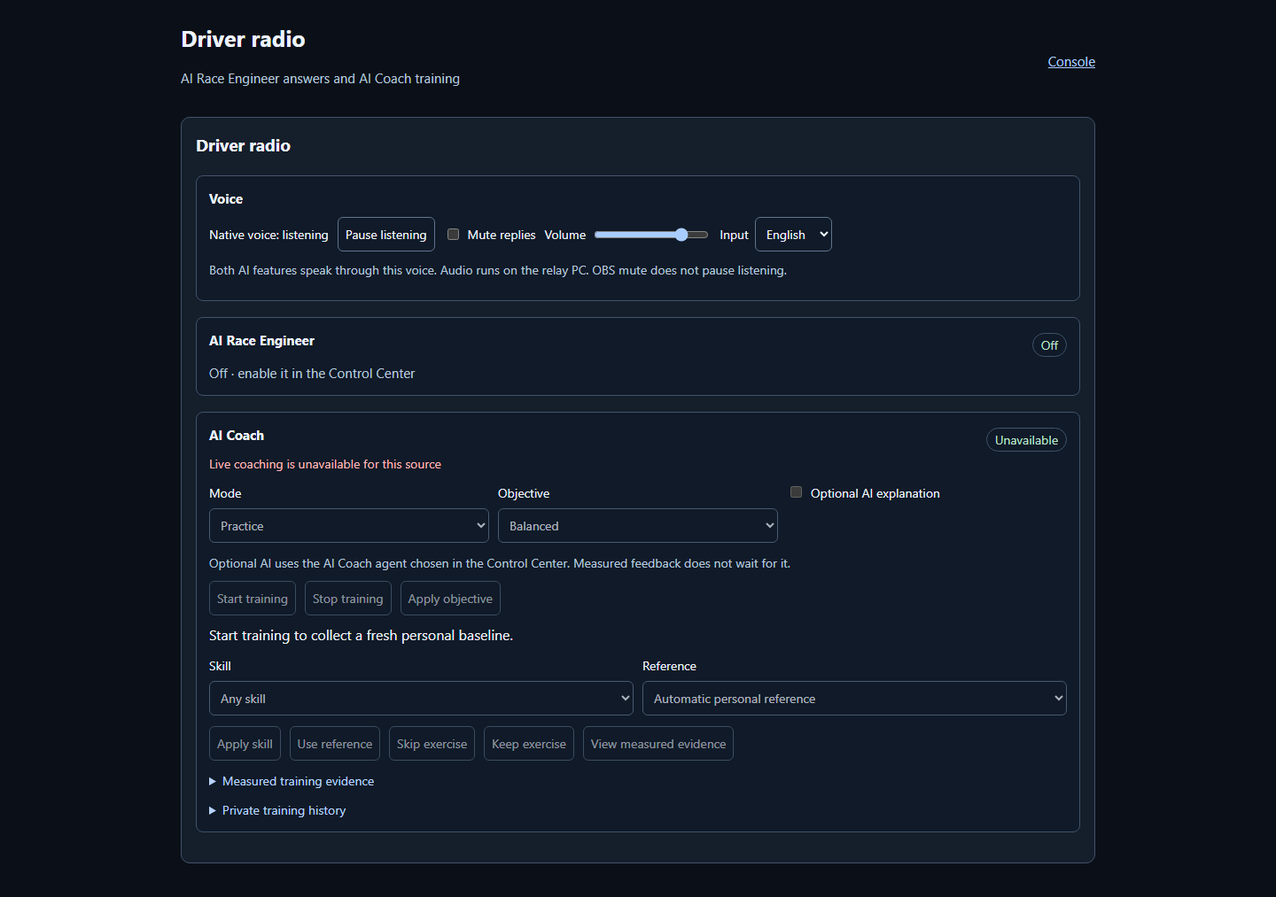
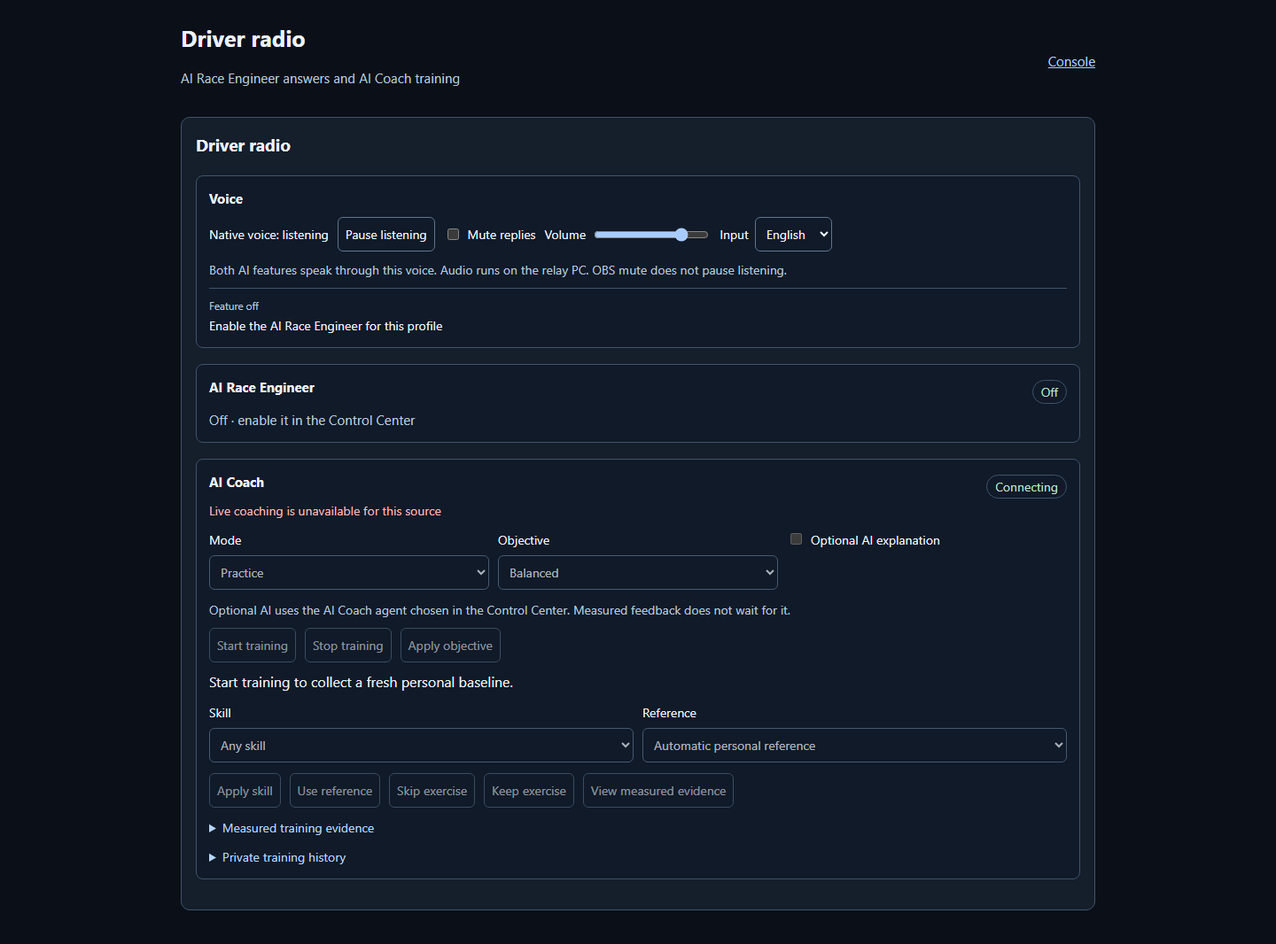
fix(radio): show refusal hints as text, start empty HUD slots hidden, reset voice on a native refusal
- The relay message lane lets refusal hints of a switched-off feature through
  (fixed DISABLED text, no engineer data); the driver view shows the newest one
  as "Feature off" in the shared Voice row instead of the feature's section.
  hud_text still never shows refusals.
- The HUD race-engineer and coach slots start with .empty, so a Visible slot
  shows no blank box before the first /hud/data reply.
- A 403 feature_disabled on a /native write hides the Voice row too.

diff --git a/src/console/driver-radio.js b/src/console/driver-radio.js
@@ -1,7 +1,7 @@
 /* Shared driver radio controls. Native audio belongs to the relay on the driver's PC. */
 (function () {
 'use strict';
-const CSS=`:host{display:block;color:#edf3fc;font:14px/1.5 system-ui,sans-serif;--edge:#41536b;--muted:#b7c7dc;accent-color:#a9ccff;color-scheme:dark}*{box-sizing:border-box}[hidden]{display:none!important}h2,h3,p{margin:0 0 10px}h2{font-size:19px}h3{font-size:15px}a{color:#a9ccff}button,input,select,textarea{font:inherit;color:inherit;background:#101a28;border:1px solid #61758f;border-radius:6px;padding:8px;max-width:100%}button{cursor:pointer;min-height:38px}button:hover{border-color:#a9ccff}button:disabled{opacity:.55;cursor:default}input[type=checkbox]{width:auto}input[type=range]{width:130px;padding:0}textarea{width:100%;min-height:58px}label{display:flex;align-items:center;gap:7px;flex-wrap:wrap}.card{border:1px solid var(--edge);border-radius:10px;background:#151e2b;padding:16px;margin-bottom:14px}.row{display:flex;align-items:center;gap:10px;flex-wrap:wrap}.head{display:flex;justify-content:space-between;gap:12px;align-items:center}.muted,small{color:var(--muted)}.error{color:#ffb9b9}.presets{display:grid;grid-template-columns:repeat(4,minmax(0,1fr));gap:8px;margin:12px 0}.answer{font-size:17px;line-height:1.55;overflow-wrap:anywhere}.urgent{border-color:#ff9b9b;background:#301c26}.badge{border:1px solid var(--edge);border-radius:14px;padding:2px 9px;color:#bce5cb;white-space:nowrap}details{margin-top:12px}summary{cursor:pointer;color:#b8d4ff}table{width:100%;border-collapse:collapse}th,td{text-align:left;vertical-align:top;border-bottom:1px solid var(--edge);padding:8px;overflow-wrap:anywhere}th{width:43%;font-weight:500;color:var(--muted)}ol{list-style:none;padding:0;margin:0}li{padding:14px 0;border-bottom:1px solid var(--edge)}.grid{display:grid;grid-template-columns:1fr 1fr;gap:14px}.grid label{display:flex;flex-direction:column;align-items:stretch;margin:10px 0}.grid .check{flex-direction:row;align-items:center}form button{margin-top:10px}.compact .presets{grid-template-columns:1fr 1fr}.compact .card{margin:0;border:0;border-radius:0}.compact .answer{font-size:14px}.compact .notice{font-size:12px}.notice{margin:10px 0;color:var(--muted)}.coach,.feature,.setting{border:1px solid var(--edge);border-radius:8px;padding:14px;margin:0 0 18px;background:#101a28}.off{font-size:15px;margin:4px 0 0}.cards{display:grid;grid-template-columns:1fr 1fr;gap:14px}.setting{margin:0}.setting.voice{grid-column:1/-1}.setting label{display:flex;flex-direction:column;align-items:stretch;margin:10px 0}.setting .check{flex-direction:row;align-items:center}.compact .feature{padding:10px}.coach-controls{display:grid;grid-template-columns:repeat(auto-fit,minmax(140px,1fr));gap:10px;margin:12px 0}.coach-controls label{align-items:flex-start;flex-direction:column}.coach-controls label:has(input[type=checkbox]){flex-direction:row}.coach select{width:100%}.coach .row{margin:10px 0}.compact .coach{padding:10px}.coach .answer{font-size:16px}.coach summary,.coach p{overflow-wrap:anywhere}.coach #coach-history-entries details{margin-bottom:10px}.coach #coach-history-delete-all{margin-top:10px}@media(max-width:650px){.presets,.grid{grid-template-columns:1fr 1fr}.grid,.cards{grid-template-columns:1fr}.head{flex-wrap:wrap}.card{padding:13px}.answer{font-size:15px}}`;
+const CSS=`:host{display:block;color:#edf3fc;font:14px/1.5 system-ui,sans-serif;--edge:#41536b;--muted:#b7c7dc;accent-color:#a9ccff;color-scheme:dark}*{box-sizing:border-box}[hidden]{display:none!important}h2,h3,p{margin:0 0 10px}h2{font-size:19px}h3{font-size:15px}a{color:#a9ccff}button,input,select,textarea{font:inherit;color:inherit;background:#101a28;border:1px solid #61758f;border-radius:6px;padding:8px;max-width:100%}button{cursor:pointer;min-height:38px}button:hover{border-color:#a9ccff}button:disabled{opacity:.55;cursor:default}input[type=checkbox]{width:auto}input[type=range]{width:130px;padding:0}textarea{width:100%;min-height:58px}label{display:flex;align-items:center;gap:7px;flex-wrap:wrap}.card{border:1px solid var(--edge);border-radius:10px;background:#151e2b;padding:16px;margin-bottom:14px}.row{display:flex;align-items:center;gap:10px;flex-wrap:wrap}.head{display:flex;justify-content:space-between;gap:12px;align-items:center}.muted,small{color:var(--muted)}.error{color:#ffb9b9}.presets{display:grid;grid-template-columns:repeat(4,minmax(0,1fr));gap:8px;margin:12px 0}.answer{font-size:17px;line-height:1.55;overflow-wrap:anywhere}.urgent{border-color:#ff9b9b;background:#301c26}.hint{border-top:1px solid var(--edge);padding-top:8px;margin-top:4px}.hint p{margin:2px 0 0}.badge{border:1px solid var(--edge);border-radius:14px;padding:2px 9px;color:#bce5cb;white-space:nowrap}details{margin-top:12px}summary{cursor:pointer;color:#b8d4ff}table{width:100%;border-collapse:collapse}th,td{text-align:left;vertical-align:top;border-bottom:1px solid var(--edge);padding:8px;overflow-wrap:anywhere}th{width:43%;font-weight:500;color:var(--muted)}ol{list-style:none;padding:0;margin:0}li{padding:14px 0;border-bottom:1px solid var(--edge)}.grid{display:grid;grid-template-columns:1fr 1fr;gap:14px}.grid label{display:flex;flex-direction:column;align-items:stretch;margin:10px 0}.grid .check{flex-direction:row;align-items:center}form button{margin-top:10px}.compact .presets{grid-template-columns:1fr 1fr}.compact .card{margin:0;border:0;border-radius:0}.compact .answer{font-size:14px}.compact .notice{font-size:12px}.notice{margin:10px 0;color:var(--muted)}.coach,.feature,.setting{border:1px solid var(--edge);border-radius:8px;padding:14px;margin:0 0 18px;background:#101a28}.off{font-size:15px;margin:4px 0 0}.cards{display:grid;grid-template-columns:1fr 1fr;gap:14px}.setting{margin:0}.setting.voice{grid-column:1/-1}.setting label{display:flex;flex-direction:column;align-items:stretch;margin:10px 0}.setting .check{flex-direction:row;align-items:center}.compact .feature{padding:10px}.coach-controls{display:grid;grid-template-columns:repeat(auto-fit,minmax(140px,1fr));gap:10px;margin:12px 0}.coach-controls label{align-items:flex-start;flex-direction:column}.coach-controls label:has(input[type=checkbox]){flex-direction:row}.coach select{width:100%}.coach .row{margin:10px 0}.compact .coach{padding:10px}.coach .answer{font-size:16px}.coach summary,.coach p{overflow-wrap:anywhere}.coach #coach-history-entries details{margin-bottom:10px}.coach #coach-history-delete-all{margin-top:10px}@media(max-width:650px){.presets,.grid{grid-template-columns:1fr 1fr}.grid,.cards{grid-template-columns:1fr}.head{flex-wrap:wrap}.card{padding:13px}.answer{font-size:15px}}`;
 const PRESETS=[['fuel','Fuel status'],['pace','Pace'],['tyres','Tyre temperatures'],['status','Short status']];
 function el(tag,text,cls){const node=document.createElement(tag);if(text!==undefined)node.textContent=text;if(cls)node.className=cls;return node;}
 function val(n,d=1){return typeof n==='number'&&Number.isFinite(n)?n.toFixed(d):'Unavailable';}
@@ -12,8 +12,9 @@ const COMPOUNDS=['CH','CM','CS','SH','SM','SS','RH','RM','RS','IM','W','D','S'];
 const OFF='Off · enable it in the Control Center';
 function disabled(error){return error.status===403&&error.code==='feature_disabled';}
 function sourceOf(message){return message.source==='coach'||message.source==='engineer'?message.source:message.kind==='coach'?'coach':'engineer';}
-function bySource(messages){const split={engineer:[],coach:[]};for(const message of messages||[])split[sourceOf(message)].push(message);return split;}
-// A refusal is the hint that its feature is switched off, not advice.
+// A refusal is the hint that its feature is switched off, not advice: the switched-off
+// feature's own section only says Off, so the hint goes to the shared Voice row.
+function bySource(messages){const split={engineer:[],coach:[]};for(const message of messages||[])if(message.kind!=='refusal')split[sourceOf(message)].push(message);return split;}
 const KINDS={question:'Voice question',requested:'Requested answer',refusal:'Feature off',coach:'Coach message'};
 function messageItem(message){const li=el('li');li.append(el('small',(KINDS[message.kind]||'Automatic advice')+' · '+message.state));if(message.question)li.append(el('p',message.question,'muted'));li.append(el('p',message.text));if(message.explanation)li.append(el('p','Interpretation: '+message.explanation,'muted'));return li;}
 function agentChoices(select,agents,chosen){select.replaceChildren(new Option('Off',''));for(const row of agents||[])select.append(new Option(row.name,row.id));if(chosen&&!Array.from(select.options).some(o=>o.value===chosen))select.append(new Option('Unavailable configured agent',chosen));select.value=chosen||'';}
@@ -44,7 +45,7 @@ class View {
  }
  engineer(on){this.q('engineer-off').hidden=on;this.q('engineer-body').hidden=!on;}
  // Both AI features are off: the shared voice row and the coach messages go too.
- voiceOff(){this.native=null;this.access=false;this.q('voice-section').hidden=true;this.q('phase').textContent='';for(const id of ['pause','mute','volume','language'])this.q(id).disabled=true;this.coach?.messages(null);}
+ voiceOff(){this.native=null;this.access=false;this.q('voice-section').hidden=true;this.renderHint(null);this.q('phase').textContent='';for(const id of ['pause','mute','volume','language'])this.q(id).disabled=true;this.coach?.messages(null);}
  async poll(){
   if(this.dead||this.busy)return;this.busy=true;const generation=this.generation;let voiceOk=false;
   try{if(this.admin){const data=await this.api('');if(this.dead||generation!==this.generation)return;this.renderAdmin(data);}else{
@@ -56,7 +57,7 @@ class View {
    this.content.hidden=false;this.q('sign').hidden=true;
    if(shared.status==='rejected'){if(!disabled(shared.reason))throw shared.reason;this.voiceOff();this.engineerOff();return;}
    const [history,native]=shared.value,split=bySource(history.messages||[]);
-   this.native=native;this.access=true;this.renderVoice();voiceOk=true;this.coach.messages(split.coach);
+   this.native=native;this.access=true;this.renderVoice();this.renderHint(history);voiceOk=true;this.coach.messages(split.coach);
    if(facts.status==='rejected'){if(!disabled(facts.reason))throw facts.reason;this.engineerOff();return;}
    const [state,setup]=facts.value;
    if(state.epoch!==history.epoch||!same(state.binding,history.binding)||!same(state.binding,setup.binding))throw new Error('Session changed. Refreshing current radio facts.');
@@ -76,12 +77,12 @@ class View {
    }
    return result;
   }catch(error){
-   if(!this.dead){if(!this.admin&&disabled(error))this.engineerOff();else if(error.status===401||error.status===403)this.deny(error);else if(generation===this.generation){this.actionError=error.status===409?'This session or form changed. Reload the form and review its current values before saving.':error.message;this.problem.textContent=this.actionError;this.q('reload').hidden=false;}}
+   if(!this.dead){if(!this.admin&&disabled(error)){if(path==='/native')this.voiceOff();this.engineerOff();}else if(error.status===401||error.status===403)this.deny(error);else if(generation===this.generation){this.actionError=error.status===409?'This session or form changed. Reload the form and review its current values before saving.':error.message;this.problem.textContent=this.actionError;this.q('reload').hidden=false;}}
    return null;
   }finally{this.sending=false;if(!this.dead){clearTimeout(this.timer);this.timer=setTimeout(()=>this.poll(),0);}}
  }
  buildDriver(){
-  this.content.innerHTML=`<section id="voice-section" class="feature" aria-label="Voice" hidden><div class="head"><h3>Voice</h3></div><div class="row"><span id="phase"></span><button id="pause" type="button">Pause listening</button><label><input id="mute" type="checkbox">Mute replies</label><label>Volume<input id="volume" type="range" min="0" max="1" step="0.05"></label><label>Input<select id="language"><option value="en">English</option><option value="de">German</option></select></label></div><p class="notice">Both AI features speak through this voice. Audio runs on the relay PC. OBS mute does not pause listening.</p></section><section id="engineer-section" class="feature" aria-label="AI Race Engineer"><div class="head"><h3>AI Race Engineer</h3><span id="live" class="badge">Connecting</span></div><p id="engineer-off" class="muted off" hidden>${OFF}</p><div id="engineer-body"><div class="presets"></div><div id="latest-box"><p id="question" class="muted"></p><p id="latest" class="answer" role="status">Waiting for a radio message.</p><small id="attachment"></small></div></div></section><section id="coach-section" aria-label="AI Coach"></section>`;
+  this.content.innerHTML=`<section id="voice-section" class="feature" aria-label="Voice" hidden><div class="head"><h3>Voice</h3></div><div class="row"><span id="phase"></span><button id="pause" type="button">Pause listening</button><label><input id="mute" type="checkbox">Mute replies</label><label>Volume<input id="volume" type="range" min="0" max="1" step="0.05"></label><label>Input<select id="language"><option value="en">English</option><option value="de">German</option></select></label></div><p class="notice">Both AI features speak through this voice. Audio runs on the relay PC. OBS mute does not pause listening.</p><div id="voice-hint" class="hint" role="status" hidden></div></section><section id="engineer-section" class="feature" aria-label="AI Race Engineer"><div class="head"><h3>AI Race Engineer</h3><span id="live" class="badge">Connecting</span></div><p id="engineer-off" class="muted off" hidden>${OFF}</p><div id="engineer-body"><div class="presets"></div><div id="latest-box"><p id="question" class="muted"></p><p id="latest" class="answer" role="status">Waiting for a radio message.</p><small id="attachment"></small></div></div></section><section id="coach-section" aria-label="AI Coach"></section>`;
   const body=this.q('engineer-body');const presets=this.content.querySelector('.presets');for(const [key,label] of PRESETS){const button=el('button',label);button.type='button';button.dataset.preset=key;button.onclick=()=>this.state&&this.send('/request',{preset:key,binding:this.state.binding});presets.append(button);}
   this.q('pause').onclick=()=>this.control({paused:!this.native.paused});this.q('mute').onchange=e=>this.control({muted:e.target.checked});this.q('volume').onchange=e=>this.control({volume:Number(e.target.value)});this.q('language').onchange=e=>this.control({input_language:e.target.value});
   if(this.compact){const link=el('a','Open driver desk');link.href='/console/driver-radio';body.append(link);return;}
@@ -98,6 +99,9 @@ class View {
   for(const id of ['pause','mute','volume','language'])this.q(id).disabled=!this.native.enabled;
   if(this.root.activeElement!==this.q('volume'))this.q('volume').value=this.native.volume;this.q('mute').checked=this.native.muted;this.q('language').value=this.native.input_language;
  }
+ // The newest message of the current session, when it is a refusal: the hint answers that
+ // one voice request and gives way to the next message of either feature.
+ renderHint(history){const box=this.q('voice-hint');const list=history?.messages||[],last=list[list.length-1];const hint=last?.kind==='refusal'&&last.epoch===history.epoch?last:null;box.replaceChildren();box.hidden=!hint;if(hint)box.append(el('small',KINDS.refusal),el('p',hint.text));}
  control(change){if(this.native)this.send('/native',{binding:this.native.binding,expected:this.native.revision,...change});}
  renderDriver(messages){
   this.engineer(true);this.q('engineer-body').querySelectorAll('button').forEach(n=>n.disabled=false);this.q('live').textContent=this.state.live?'Live telemetry':'Live data unavailable';

diff --git a/src/obs/hud.html b/src/obs/hud.html
@@ -309,8 +309,8 @@
   <div id="team3-brand" class="el team-brand white" data-edit="Team 3 brand name" data-edit-kind="text"></div>
   <div id="team3-quali" class="el team-quali white" data-edit="Team 3 quali lap" data-edit-kind="text"></div>
   <div id="race-control" class="el white" data-edit="Race control" data-edit-kind="text"></div>
-  <div id="race-engineer" class="el white" data-edit="Race engineer" data-edit-kind="text"></div>
-  <div id="coach" class="el white" data-edit="Coach" data-edit-kind="text"></div>
+  <div id="race-engineer" class="el white empty" data-edit="Race engineer" data-edit-kind="text"></div>
+  <div id="coach" class="el white empty" data-edit="Coach" data-edit-kind="text"></div>
   <div id="flag-status" class="el" data-edit="Flag status" data-edit-kind="text"></div>
   <div id="pov" class="el" data-edit="POV box" data-edit-kind="box"></div>
   <div id="pov-name" class="el" data-edit="POV name" data-edit-kind="text"></div>

diff --git a/tests/test_driver_radio_ui.py b/tests/test_driver_radio_ui.py
@@ -142,16 +142,24 @@ def t_any_signed_in_console_subject_reaches_the_engineer_without_an_assignment()
 
 
 def t_messages_and_native_serve_either_feature_and_only_enabled_sources():
+    import driver_radio_access as access
     def lane(f):
         status,raw,_=f.request('/console/driver-radio/messages');doc=json.loads(raw)
         return status,doc.get('messages',doc.get('error'))
+    def hint(messages,feature):
+        # A switched-off feature's refusal passes the lane (the driver view shows it in the
+        # Voice row); it carries only the fixed hint text, no engineer or coach data.
+        rows=[m for m in messages if m['source']==feature]
+        assert [m['kind'] for m in rows]==['refusal'] and rows[0]['text']==access.DISABLED[feature],rows
+        assert all(not value for value in rows[0]['evidence'].values()),rows[0]
     owner={'profile':'solo-pov','subject':'local:producer'}
     with RadioFixture() as f:
         switch(f,coach=True);f.f.poll()
         assert f.f.service.publish_coach('Brake later into turn one.',{},owner,'training',authorize=lambda:True,ready=lambda:True)
         f.f.service.refusal('engineer',f.f.service.refresh()['binding'])
         status,messages=lane(f)
-        assert status==200 and [m['source'] for m in messages]==['coach'],(status,messages)
+        assert status==200 and [m['source'] for m in messages]==['coach','engineer'],(status,messages)
+        hint(messages,'engineer')
         status,raw,_=f.request('/console/driver-radio/native');assert status==200 and json.loads(raw)['enabled'] in (True,False),(status,raw)
         for path in ('/console/driver-radio/snapshot','/console/driver-radio/setup'):
             status,raw,_=f.request(path);assert status==403 and json.loads(raw)['error']['code']=='feature_disabled',(path,status)
@@ -159,7 +167,13 @@ def t_messages_and_native_serve_either_feature_and_only_enabled_sources():
         switch(f,engineer=True);f.f.poll()
         f.f.request('fuel');f.f.service.refusal('coach',f.f.service.refresh()['binding'])
         status,messages=lane(f)
-        assert status==200 and messages and {m['source'] for m in messages}=={'engineer'},(status,messages)
+        assert status==200 and {m['source'] for m in messages}=={'engineer','coach'},(status,messages)
+        assert any(m['source']=='engineer' and m['kind']!='refusal' for m in messages),messages
+        hint(messages,'coach')
+        # The engineer's own answers stay in the relay once it is switched off.
+        switch(f,coach=True);f.f.poll()
+        status,messages=lane(f)
+        assert status==200 and not [m for m in messages if m['source']=='engineer' and m['kind']!='refusal'],(status,messages)
         switch(f);f.f.poll()
         for path in ('/console/driver-radio/messages','/console/driver-radio/native'):
             status,raw,_=f.request(path);doc=json.loads(raw)['error']
@@ -351,10 +365,11 @@ def _driver_routes(messages=(),engineer=True,coach=True):
            '/console/driver-radio/messages':[200,{'epoch':1,'binding':_BINDING,'messages':list(messages)}],
            '/console/driver-radio/native':[200,{'binding':_BINDING,'revision':0,'phase':'idle','enabled':True,'paused':False,'muted':False,'volume':1,'input_language':'en'}],
            '/console/driver-radio/setup':[200,{'binding':_BINDING,'revision':0,'setup':{}}]}
-    # The relay serves messages (enabled sources only) and native voice for either feature.
+    # The relay serves messages (enabled sources and refusal hints) and native voice for
+    # either feature.
     shared=('/console/driver-radio/messages','/console/driver-radio/native')
     keep={name for name,on in (('engineer',engineer),('coach',coach)) if on}
-    radio['/console/driver-radio/messages'][1]['messages']=[m for m in messages if m['source'] in keep]
+    radio['/console/driver-radio/messages'][1]['messages']=[m for m in messages if m['source'] in keep or m['kind']=='refusal']
     if not engineer:radio={path:(doc if coach and path in shared else off('AI Race Engineer')) for path,doc in radio.items()}
     radio['/console/driver-radio/coach']=[200,_COACH_STATE] if coach else off('AI Coach')
     radio['/console/whoami']=[200,{'subject':'driver','ai_engineer':engineer,'ai_coach':coach}]
@@ -390,19 +405,22 @@ def t_sections_split_messages_by_source():
     messages=[dict(id=1,source='engineer',kind='requested',state='done',text='Fuel for 12 laps.'),
               dict(id=2,source='coach',kind='coach',state='done',text='Brake two metres later.'),
               dict(id=3,source='coach',kind='refusal',state='text_only',text='Enable the AI Coach for this profile'),
-              dict(id=4,source='engineer',kind='refusal',state='text_only',text='Enable the AI Race Engineer for this profile')]
+              dict(id=4,source='engineer',kind='refusal',state='text_only',text='Enable the AI Race Engineer for this profile',epoch=1)]
     out=_run_component("""
      Object.assign(routes,%s);
      const view=window.DriverRadio.mount(new El('div'));await tick();await tick();
-     const result={engineer:byId('history').textContent,coach:byId('coach-messages').textContent,latest:byId('latest').textContent};
+     const result={engineer:byId('history').textContent,coach:byId('coach-messages').textContent,latest:byId('latest').textContent,
+       hint:byId('voice-hint').textContent};
      view.destroy();console.log(JSON.stringify(result));
     """%_driver_routes(messages))
     if out is None:return
     assert 'Fuel for 12 laps.' in out['engineer'] and 'Fuel for 12 laps.' not in out['coach'],out
     assert 'Brake two metres later.' in out['coach'] and 'Brake two metres later.' not in out['engineer'],out
-    assert 'Enable the AI Coach' in out['coach'] and 'Enable the AI Coach' not in out['engineer'],out
-    assert 'Feature off' in out['engineer'] and 'Automatic advice' not in out['engineer'],out
-    assert out['latest']=='Enable the AI Race Engineer for this profile',out
+    # Refusal hints belong to the shared Voice row, not to either feature's section.
+    for section in ('engineer','coach'):
+        assert 'Feature off' not in out[section] and 'Enable the' not in out[section],(section,out)
+    assert out['latest']=='Fuel for 12 laps.',out
+    assert out['hint']=='Feature off Enable the AI Race Engineer for this profile',out
 
 
 def t_a_disabled_feature_turns_off_only_its_own_section():
@@ -436,6 +454,43 @@ def t_coach_only_view_keeps_the_voice_controls_and_coach_messages():
     assert out['content'] is False and out['engineerOff'] is False,out
     assert out['voice'] is False and out['pause'] is False and out['phase'].startswith('Native voice'),out
     assert 'Brake two metres later.' in out['coach'],out
+
+
+def t_a_refusal_shows_in_the_voice_row_where_the_driver_looks():
+    # Coach alone: asking the switched-off AI Race Engineer by voice gets its hint as text in
+    # the Voice row (its own section only says Off), also when speech is muted or not live.
+    messages=[dict(id=1,source='coach',kind='coach',state='done',text='Brake two metres later.'),
+              dict(id=2,source='engineer',kind='refusal',state='text_only',text='Enable the AI Race Engineer for this profile',epoch=1)]
+    probe="""
+     Object.assign(routes,%s);
+     const view=window.DriverRadio.mount(new El('div'));await tick();await tick();
+     const result={hint:byId('voice-hint').textContent,hidden:byId('voice-hint').hidden,voice:byId('voice-section').hidden,
+       coach:byId('coach-messages').textContent,engineerOff:byId('engineer-off').hidden};
+     view.destroy();console.log(JSON.stringify(result));"""
+    out=_run_component(probe%_driver_routes(messages,engineer=False))
+    if out is None:return
+    assert out['voice'] is False and out['hidden'] is False and out['engineerOff'] is False,out
+    assert out['hint']=='Feature off Enable the AI Race Engineer for this profile',out
+    assert 'Enable the' not in out['coach'],out
+    # A later message replaces the hint: it answers that one request, not every poll.
+    later=messages+[dict(id=3,source='coach',kind='coach',state='done',text='Lift earlier into turn four.')]
+    out=_run_component(probe%_driver_routes(later,engineer=False))
+    assert out['hidden'] is True and out['hint']=='',out
+
+
+def t_a_native_refusal_with_both_features_off_hides_the_voice_row():
+    out=_run_component("""
+     Object.assign(routes,%s);
+     const view=window.DriverRadio.mount(new El('div'));await tick();await tick();
+     const before=byId('voice-section').hidden;
+     routes['/console/driver-radio/native']=[403,{error:{code:'feature_disabled',message:'Enable the AI Race Engineer or the AI Coach for this profile'}}];
+     clearTimeout(view.timer);await view.send('/native',{binding:view.native.binding,expected:0,muted:true});
+     const result={before,voice:byId('voice-section').hidden,native:view.native,pause:byId('pause').disabled,engineerOff:byId('engineer-off').hidden};
+     view.destroy();console.log(JSON.stringify(result));
+    """%_driver_routes(engineer=False))
+    if out is None:return
+    assert out['before'] is False,out
+    assert out['voice'] is True and out['native'] is None and out['pause'] is True and out['engineerOff'] is False,out
 
 
 if __name__=='__main__':

diff --git a/tools/radio_browser_check.py b/tools/radio_browser_check.py
@@ -158,6 +158,11 @@ def check(browser,outdir,shots=None):
             # The shared Voice row serves the AI Coach too and stays usable.
             first.wait_for_timeout(1200)
             assert a.locator('#voice-section').is_visible() and a.locator('#pause').is_enabled(),'engineer switch-off removed the shared voice controls'
+            # A voice request for the switched-off engineer shows its hint as text in the Voice row.
+            f.f.service.refusal('engineer',f.f.service.refresh()['binding'])
+            a.locator('#voice-hint').wait_for(state='visible')
+            assert a.locator('#voice-hint').inner_text().startswith('Feature off'),a.locator('#voice-hint').inner_text()
+            assert 'Enable the' not in a.locator('#coach-section').inner_text(),'refusal hint leaked into the AI Coach section'
             shot(first,'driver-radio-denied',wiki='console-driver-radio-access.png')
             # Finish only synthetic queued work, then closing views must not pause native service.
             for _ in range(12):

diff --git a/src/relay/racecast-feeds.py b/src/relay/racecast-feeds.py
@@ -12021,7 +12021,8 @@ def make_handler(relay, panel_path=None, hud_source=None, hud_path=None, assets_
                                     or values and not (values[0].isascii() and values[0].isdigit() and len(values[0]) <= 18)):
                                 return self._radio_error("invalid_query", "Use one nonnegative message revision", 400)
                             result = radio_service.history(int(values[0]) if values else None, requester=subject)
-                            result["messages"] = [m for m in result["messages"] if m.get("source") in features]
+                            result["messages"] = [m for m in result["messages"] if m.get("source") in features
+                                                  or m.get("kind") == "refusal"]
                         elif route == "request":
                             if set(body) != {"preset", "binding"}:
                                 return self._radio_error("invalid_body", "Expected preset and current binding", 400)

diff --git a/tests/test_hud.py b/tests/test_hud.py
@@ -1253,6 +1253,11 @@ def t_hud_slots_hidden_when_empty_even_if_visible():
         assert _display(sid, filled, [base, on]) == "flex", "Visible on, text: shown"
         assert _display(sid, filled, [base, unset]) == "none", "Visible unset: hidden"
         assert _display(sid, filled, [base]) == "none", "no profile overlay: hidden"
+        # Until the first /hud/data reply fills it, the slot starts empty, so a Visible
+        # slot shows no blank box on page load (or ever, if that fetch fails).
+        import re
+        m = re.search(r'<div id="%s" class="([^"]*)"' % sid, html)
+        assert m and "empty" in m.group(1).split(), (sid, m and m.group(1))
 
 if __name__ == "__main__":
     for name, fn in sorted(globals().items()):

diff --git a/src/docs/design/driver-radio-ui.md b/src/docs/design/driver-radio-ui.md
@@ -32,21 +32,26 @@ revoked data. Prior validated interpretations remain visible with their messages
 The component shows the AI Race Engineer and the AI Coach as two labelled sections
 in the driver desk and the Director Solo card, and the Control Center form as three
 cards: AI Race Engineer (switch and agent), AI Coach (switch and agent) and the
-shared Voice. Messages are split by their `source`; a `refusal` is labelled
-"Feature off". Each section handles its own switch: a 403 `feature_disabled` from
+shared Voice. Messages are split by their `source`; a `refusal` (the fixed
+`feature_disabled` hint of a switched-off feature, no engineer data) is labelled
+"Feature off" and renders in the shared Voice row while it is the newest message of
+the session, since its own section only says Off. Each section handles its own switch: a 403 `feature_disabled` from
 the engineer routes empties and hides only the engineer section, a 403
 `feature_disabled` from the coach route (or `whoami.ai_coach` false) does the same
 for the coach section, and both show "Off · enable it in the Control Center". A 401
 or any other 403 still denies the whole view. The relay serves
 `messages` and `native` while either feature is on (403 `feature_disabled` naming
 both only when both are off) and filters `messages` to the sources whose feature
-is on; `snapshot`, `setup`, `service` and `request` stay engineer-only. The view
+is on, letting `refusal` messages through (the HUD never shows them); `snapshot`, `setup`, `service` and `request` stay engineer-only. The view
 polls the shared pair and the engineer pair independently, so a coach-only view
 keeps its coach messages and the shared Voice row (pause, mute, volume, input
-language), which sits above both sections.
+language), which sits above both sections. A 403 `feature_disabled` on a `native`
+write (both features off) hides the Voice row as well as the engineer section.
 The single coach owner per profile removed the "busy, another driver" phase and the
 `training_busy` handling from the coach view. Tests: `t_admin_form_saves_two_features`,
 `t_sections_split_messages_by_source`,
+`t_a_refusal_shows_in_the_voice_row_where_the_driver_looks`,
+`t_a_native_refusal_with_both_features_off_hides_the_voice_row`,
 `t_a_disabled_feature_turns_off_only_its_own_section`,
 `t_coach_only_view_keeps_the_voice_controls_and_coach_messages` (node, fake DOM),
 `t_messages_and_native_serve_either_feature_and_only_enabled_sources` (signed HTTP)

diff --git a/src/docs/wiki/Driver-Radio.md b/src/docs/wiki/Driver-Radio.md
@@ -26,9 +26,12 @@ by either switch.
 Every message carries its source, so an engineer answer never appears in the
 AI Coach section and a coach review never appears in the AI Race Engineer
 section. A message labelled **Feature off** is the hint a switched-off feature
-gives when someone asks it something. The relay serves the shared message lane
-and the native voice controls while either feature is on, and sends each view
-only the messages of the features that are switched on: with the AI Coach alone,
+gives when someone asks it something by voice. It appears in the **Voice** row,
+because the switched-off feature's own section only says Off, and it stays there
+until the next message arrives; it never reaches the HUD. The relay serves the
+shared message lane and the native voice controls while either feature is on,
+and sends each view only the messages of the features that are switched on
+(plus those hints): with the AI Coach alone,
 the desk shows the coach messages and the **Voice** row, and no engineer
 messages; with the AI Race Engineer alone, no coach messages leave the relay.
 
